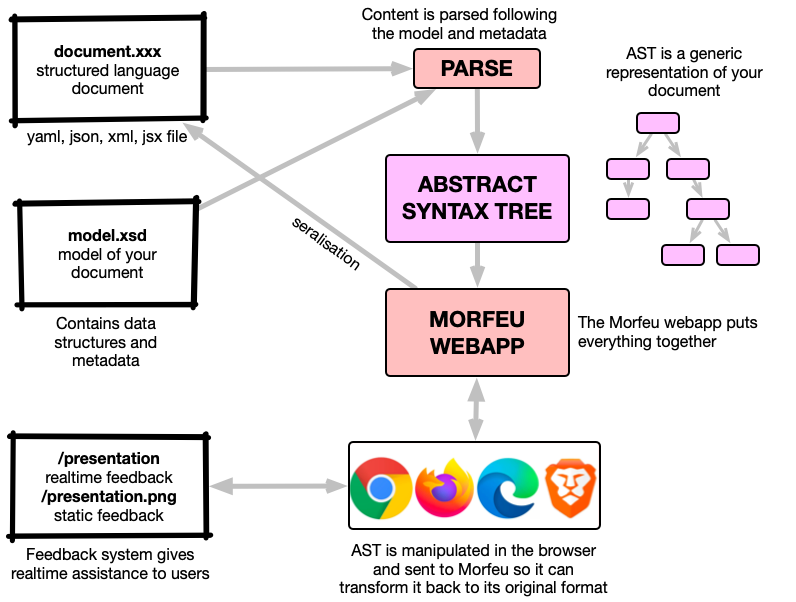
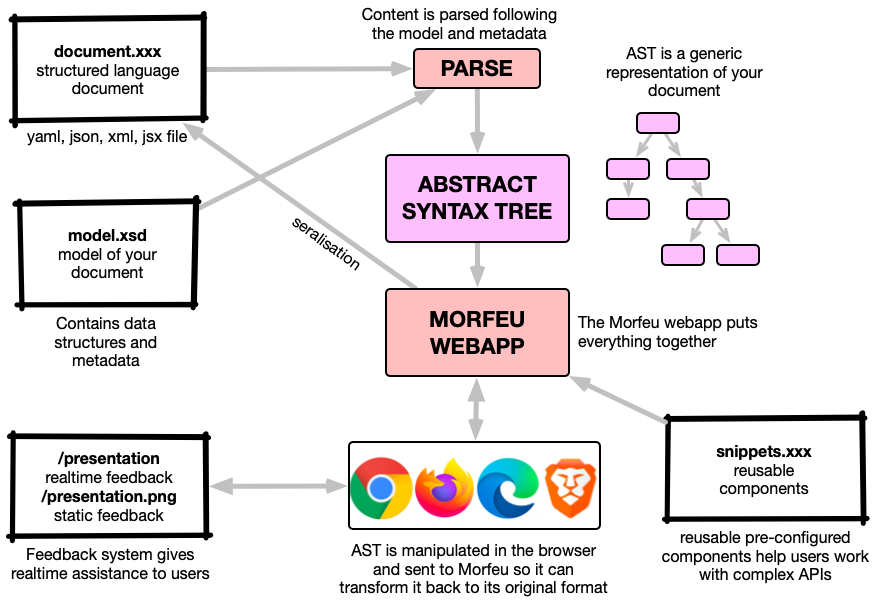
much clearer readme

diff --git a/README.md b/README.md
@@ -62,7 +62,57 @@ In this short video we showcase a Morfeu editing session with a simple YAML-base
 
 ## How it works
 
+### Main idea
+
 ![Diagram of Morfeu basic architecture](./src/site/img/how-it-works.png)
+
+As shown in the diagram, YAML, JSON, XML, or JSX files or  _documents_  are parsed into an [Abstract Syntax Tree](https://en.wikipedia.org/wiki/Abstract_syntax_tree) and presented to the user as a generic drag and drop UI, the UI can have a realtime interactive feedback loop when manipulating the different elements of the API. When the user is satisfied the document content is OK the AST is converted back to its original format.
+
+### How it looks
+
+![How the UI looks](./src/site/img/ui.png)
+
+
+### Conceptual model
+
+![How the different elements are defined](./src/site/img/concepts.png)
+
+
+#### Catalogue
+
+Convenience grouping of documents of a given API, it is expected all documents contained share the same API, model,
+preview functionality, etc. It will also contain a list of snippets for convenience.
+
+#### Document
+
+Instances of an usage of an API, DSL or abstraction layer, it is composed of a number of cells
+
+### Snippet
+
+Convenience fragment of a document, with pre-filled values. Useful as a starting point for complex API usage and for begginner 
+users. Necessarily tied to the model though it may not always validate (given it may be a fragment that needs to sit within a given
+structure.
+
+#### Model
+
+Model represeting an API, a DSL or an abstraction layer
+
+#### CellModel
+
+Elements within the model
+Can have cardinality, high level rules
+
+#### Type
+
+Low level types, basic rules
+
+#### Metadata
+
+Metadata related to the above items to increase usability, add some semantics and enrich models
+
+#### Cell
+
+Elements within a document, tied to cell models
 
 
 ## Rationale
@@ -75,13 +125,12 @@ This problem is compounded when the underlying systems interact between themselv
 
 Morfeu proposes a generic browser-based UI to handle multiple APIs at the same time, maintaining boundaries and making it easier for engineers to test and interact with YAML, JSON and XML-based APIs (other formats can be added as long as there is a way to transform to and from a DOM-like tree structure). JSX support was added with minimal effort.
 
-## Installation
+## Development
+
+### Dependencies
 
 Morfeu requires [Java 11](https://java.com/en/download/), [Maven](http://maven.apache.org), [Angular 10](https://angular.io) and [npm](https://www.npmjs.com). [Selenium](https://www.seleniumhq.org) is used for browser integration tests. Docker images are
 available.
-
-
-## Development
 
 ### Tests
 
@@ -94,58 +143,6 @@ This will run unit tests and general integration tests (see next command for UI 
 To launch UI Selenium integration tests you can do:
 
     mvn test failsafe:integration-test -Dit.test='*IntTest' -Dapp-url='http://localhost:3000/'
-
-
-
-
-
-## Concepts
-
-
-### Catalogue
-
-Convenience grouping of documents of a given API, it is expected all documents contained share the same API, model,
-preview functionality, etc. It will also contain a list of snippets for convenience.
-
-## Templates
-
-### Model
-
-Model represeting an API, a DSL or an abstraction layer
-
-## CellModel
-
-Elements within the model
-Can have cardinality, high level rules
-
-## Type
-
-Low level types, basic rules
-
-## Metadata
-
-Metadata related to the above items to increase usability, add some semantics and enrich models
-
-### Document
-
-Instances of an usage of an API, DSL or abstraction layer
-
-### Snippet
-
-Convenience fragment of a document, with pre-filled values. Useful as a starting point for complex API usage and for begginner 
-users. Necessarily tied to the model though it may not always validate (given it may be a fragment that needs to sit within a given
-structure.
-
-
-### Cell
-
-Elements within a document, tied to cell models
-
-## Architecture
-
-Architecture diagrams go here
-
-## Deployment
 
 ## Contributing
 
